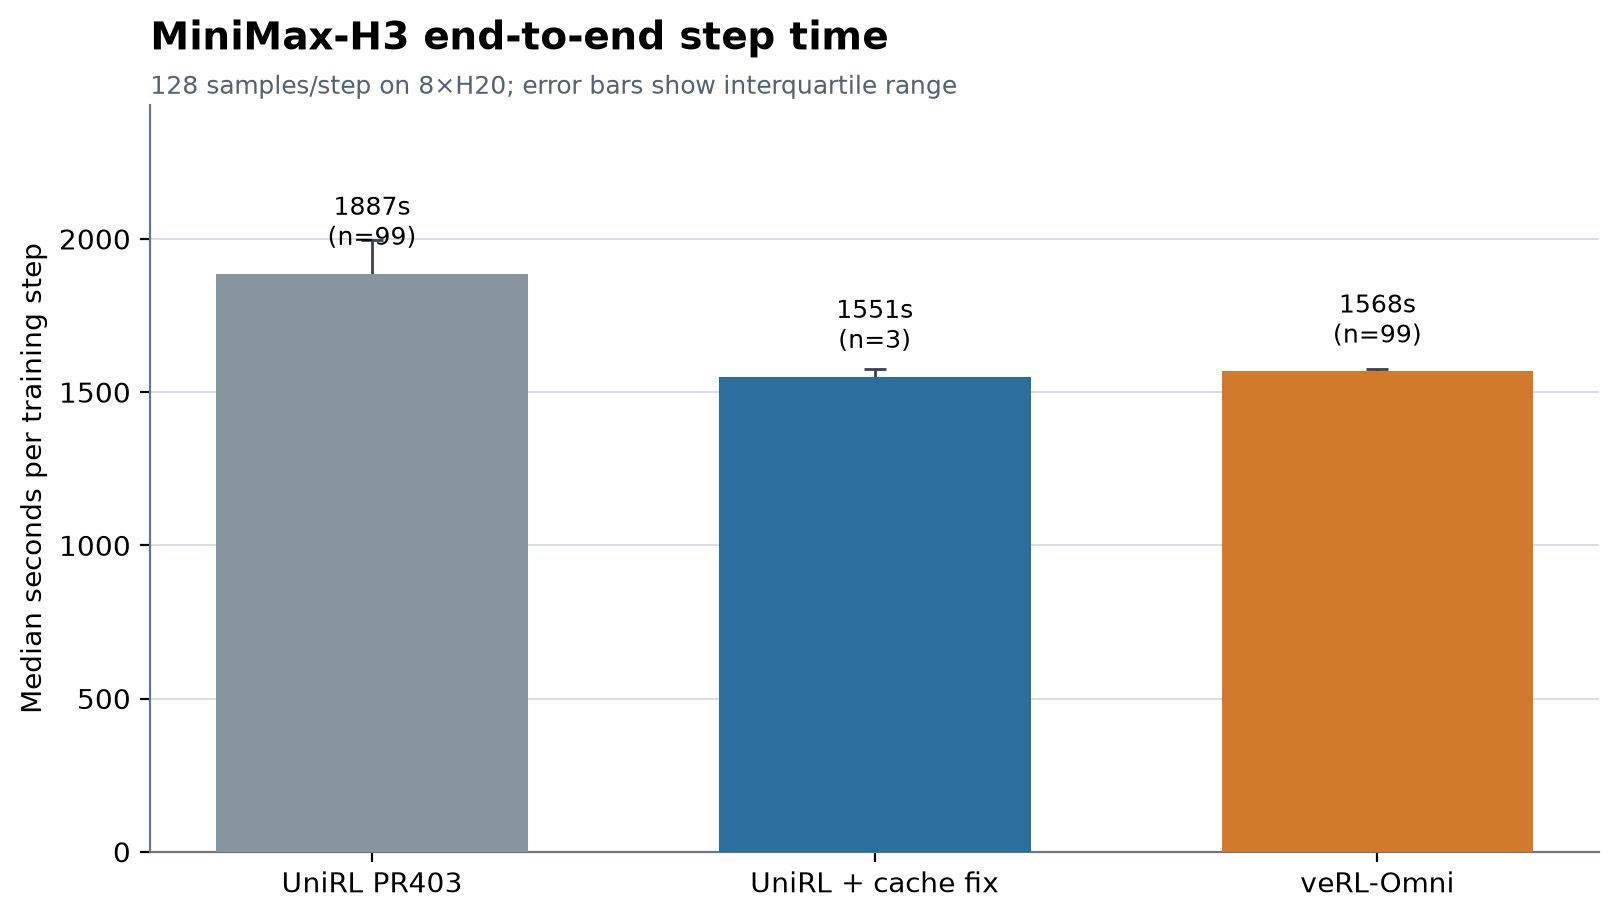
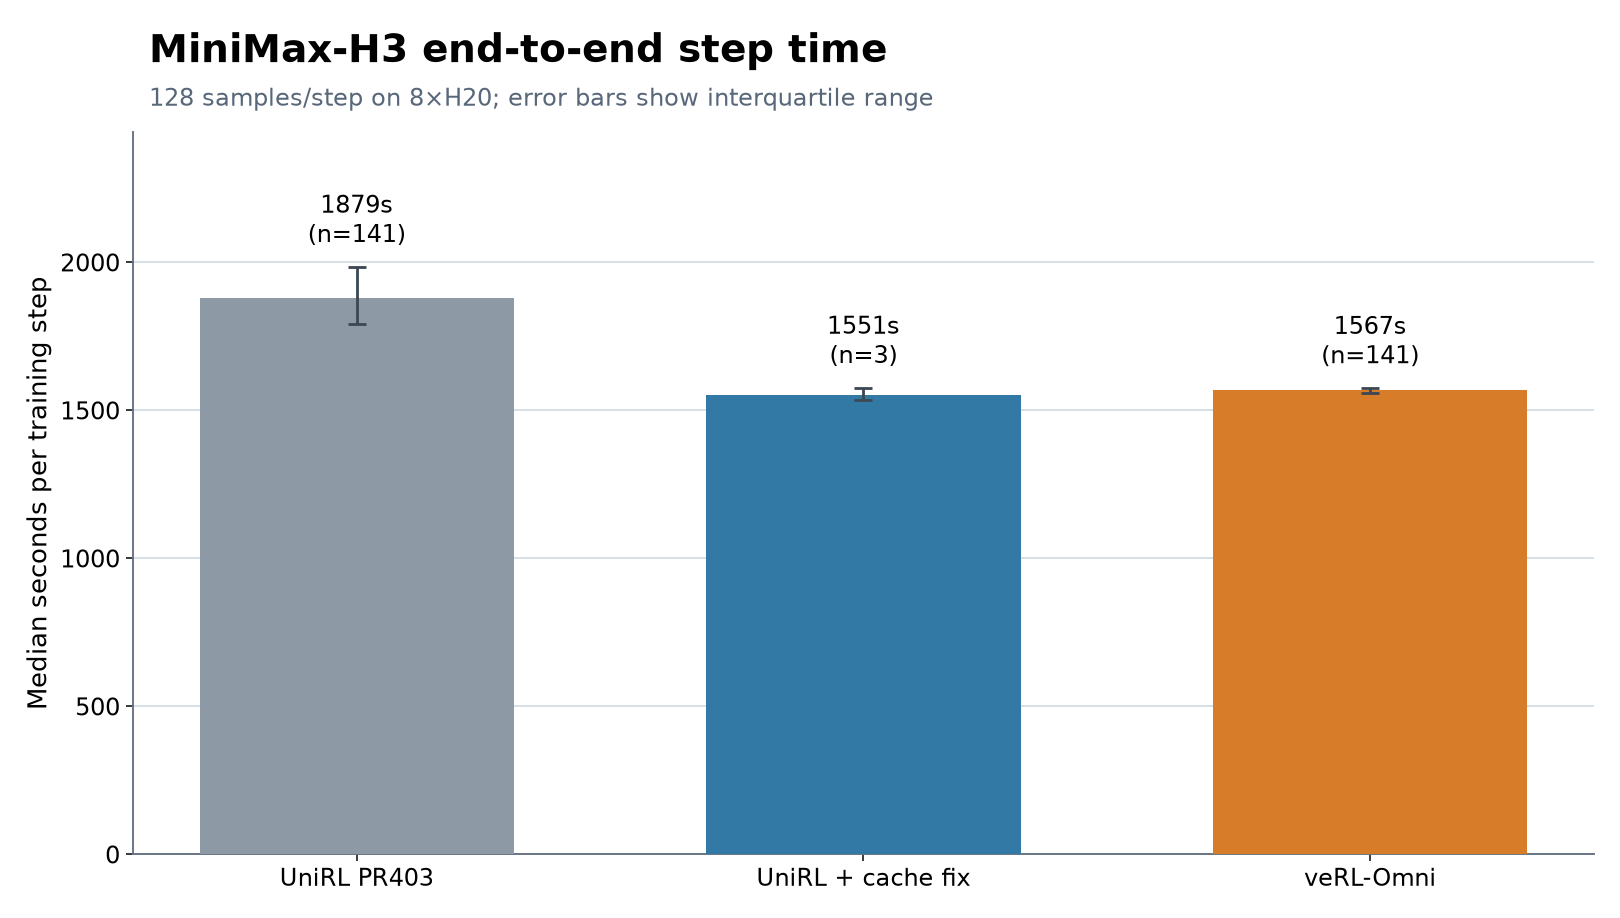
docs(results): extend MiniMax-H3 run evidence

Changed region(s): [[0.0, 0.2135, 0.9883, 0.976], [0.0926, 0.0, 0.5868, 0.122]]

diff --git a/artifacts/reported_results/2026-09-30-minimax-h3/README.md b/artifacts/reported_results/2026-09-30-minimax-h3/README.md
@@ -25,31 +25,40 @@ optimizer, LoRA targets, reward functions, and seed.
 
 ![MiniMax-H3 training reward](curve.png)
 
-Both runs learn under the matched recipe. The figure fixes both curves to their
-first 100 logical steps. UniRL's mean reward averaged over the first/last 10
-steps was **0.194 / 0.404**; veRL-Omni's was **0.212 / 0.389**.
+Both runs learn under the matched recipe. The figure includes all valid W&B
+history: UniRL through logical step 204 and veRL-Omni through step 142. Mean
+reward over each run's first/last 10 available steps was **0.194 / 0.361** for
+UniRL and **0.212 / 0.453** for veRL-Omni. These endpoint windows summarize
+within-run progress; they end at different logical steps.
 
 [`curve.csv`](curve.csv) uses each framework's logical step: UniRL
 `rollout/step` and veRL-Omni `training/global_step`. W&B's default `_step` is
 not comparable because one UniRL logical step produces multiple W&B records.
+The bold traces are trailing 10-step means; the faint traces are raw rewards.
+
+The last durable checkpoints are UniRL `checkpoint-200` and veRL-Omni
+`global_step_140`. The UniRL job stopped when its cluster allocation retired.
+The veRL-Omni job resumed from step 140, logged steps 141–142 into the same W&B
+run, and then ended after a Ray actor/worker failure during actor update.
 
 ## Performance
 
 ![MiniMax-H3 end-to-end performance](performance.png)
 
 [`performance.csv`](performance.csv) reports medians and interquartile ranges.
-The long-run comparison uses the same logical steps 2–100, excluding step 1 as
-warm-up. PR403 UniRL measured **1887 s/step**, versus **1568 s/step** for
-veRL-Omni. The cache-only check measured **1551 s/step** over steps 2–4: an
-18.0% reduction from PR403 and within 1.1% of the veRL-Omni long-run median.
+The long-run comparison uses the same logical steps 2–142, excluding step 1 as
+warm-up. PR403 UniRL measured **1879 s/step**, versus **1567 s/step** for
+veRL-Omni. The cache-only check measured **1551 s/step** over steps 2–4: a
+17.5% reduction from PR403 and within 1.1% of the veRL-Omni long-run median.
 
 The PR403 gap is concentrated in rollout generation. Its frozen 32B Qwen3-VL
 conditioner is recomputed for every sibling sample when
 `forward_batch_size=1`. [PR410](https://github.com/Tencent-Hunyuan/UniRL/pull/410)
 introduced a CPU prompt-embedding cache; the
 exact [`conditioning_cache.patch`](conditioning_cache.patch) used here is a
-cache-only backport of that fix. Its generation median fell from **745 s** in
-the PR403 long run to **405 s**, while its training median remained **1104 s**.
+cache-only backport of that fix. Its generation median fell from **735 s** in
+the PR403 long run to **405 s**. Training medians remained close at **1098 s**
+for the long run and **1104 s** for the cache check.
 The check contains only three post-warm-up measurements, so it validates the
 regression fix rather than serving as a long-run variance estimate.
 
